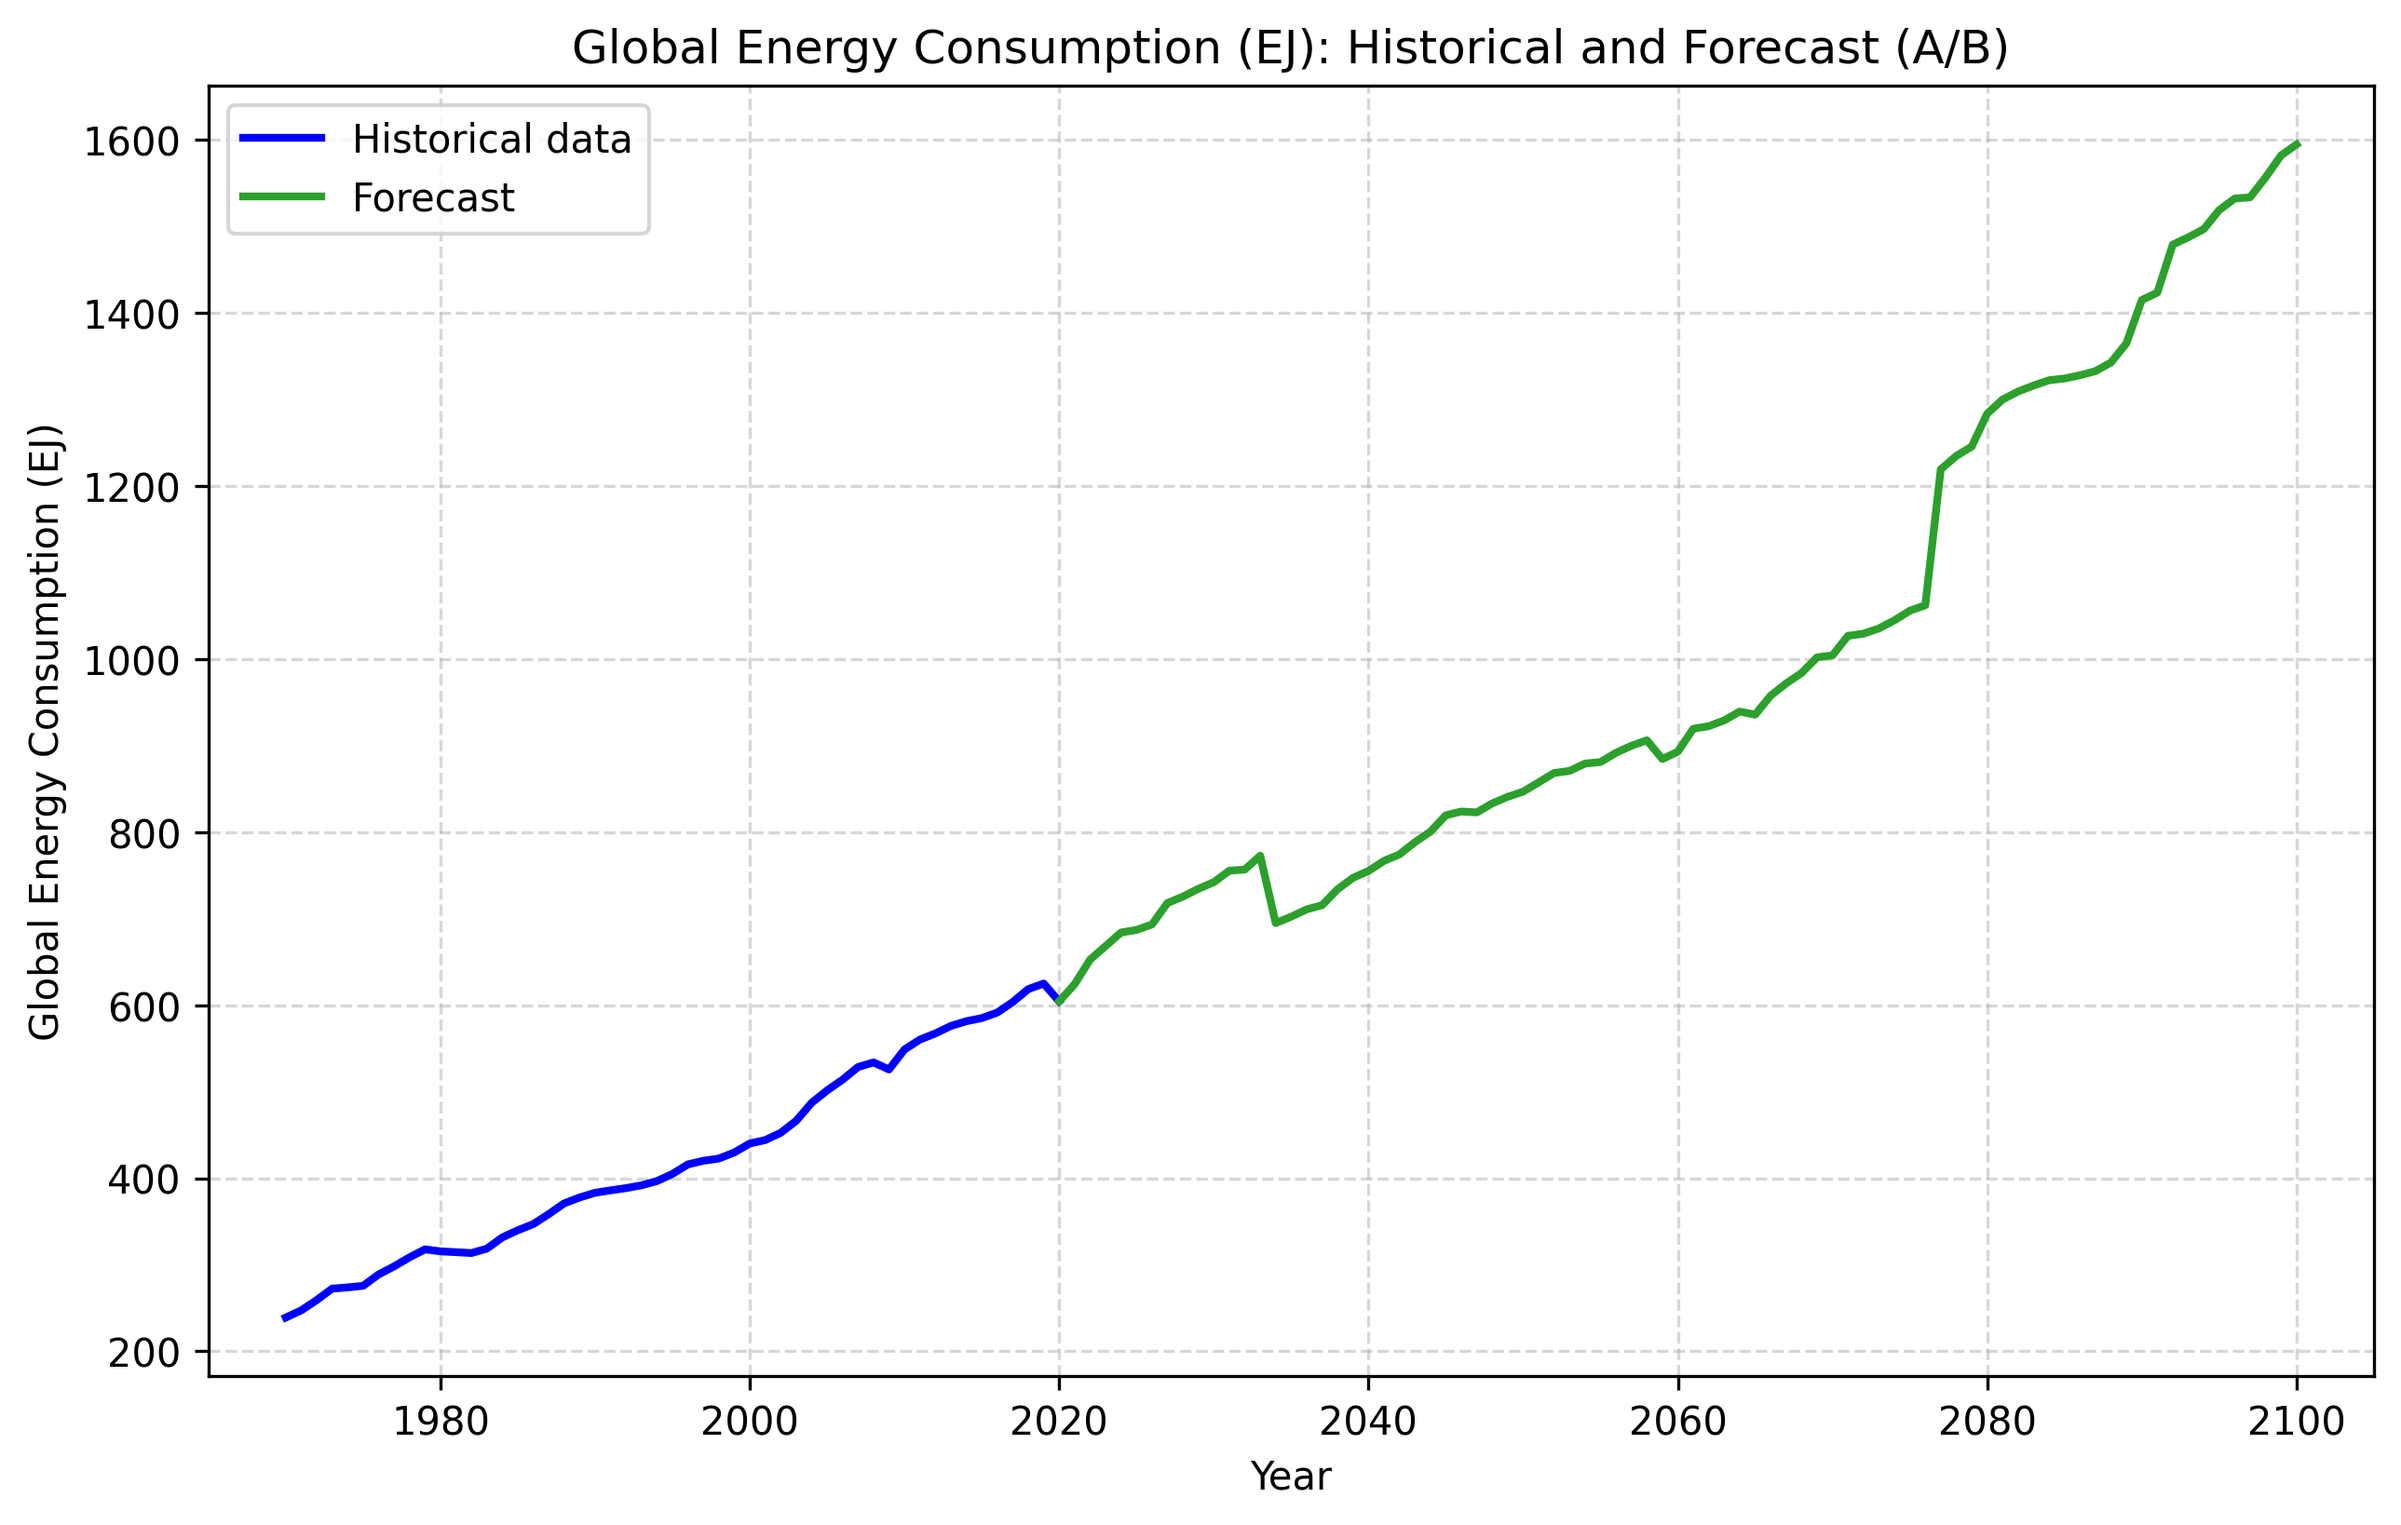
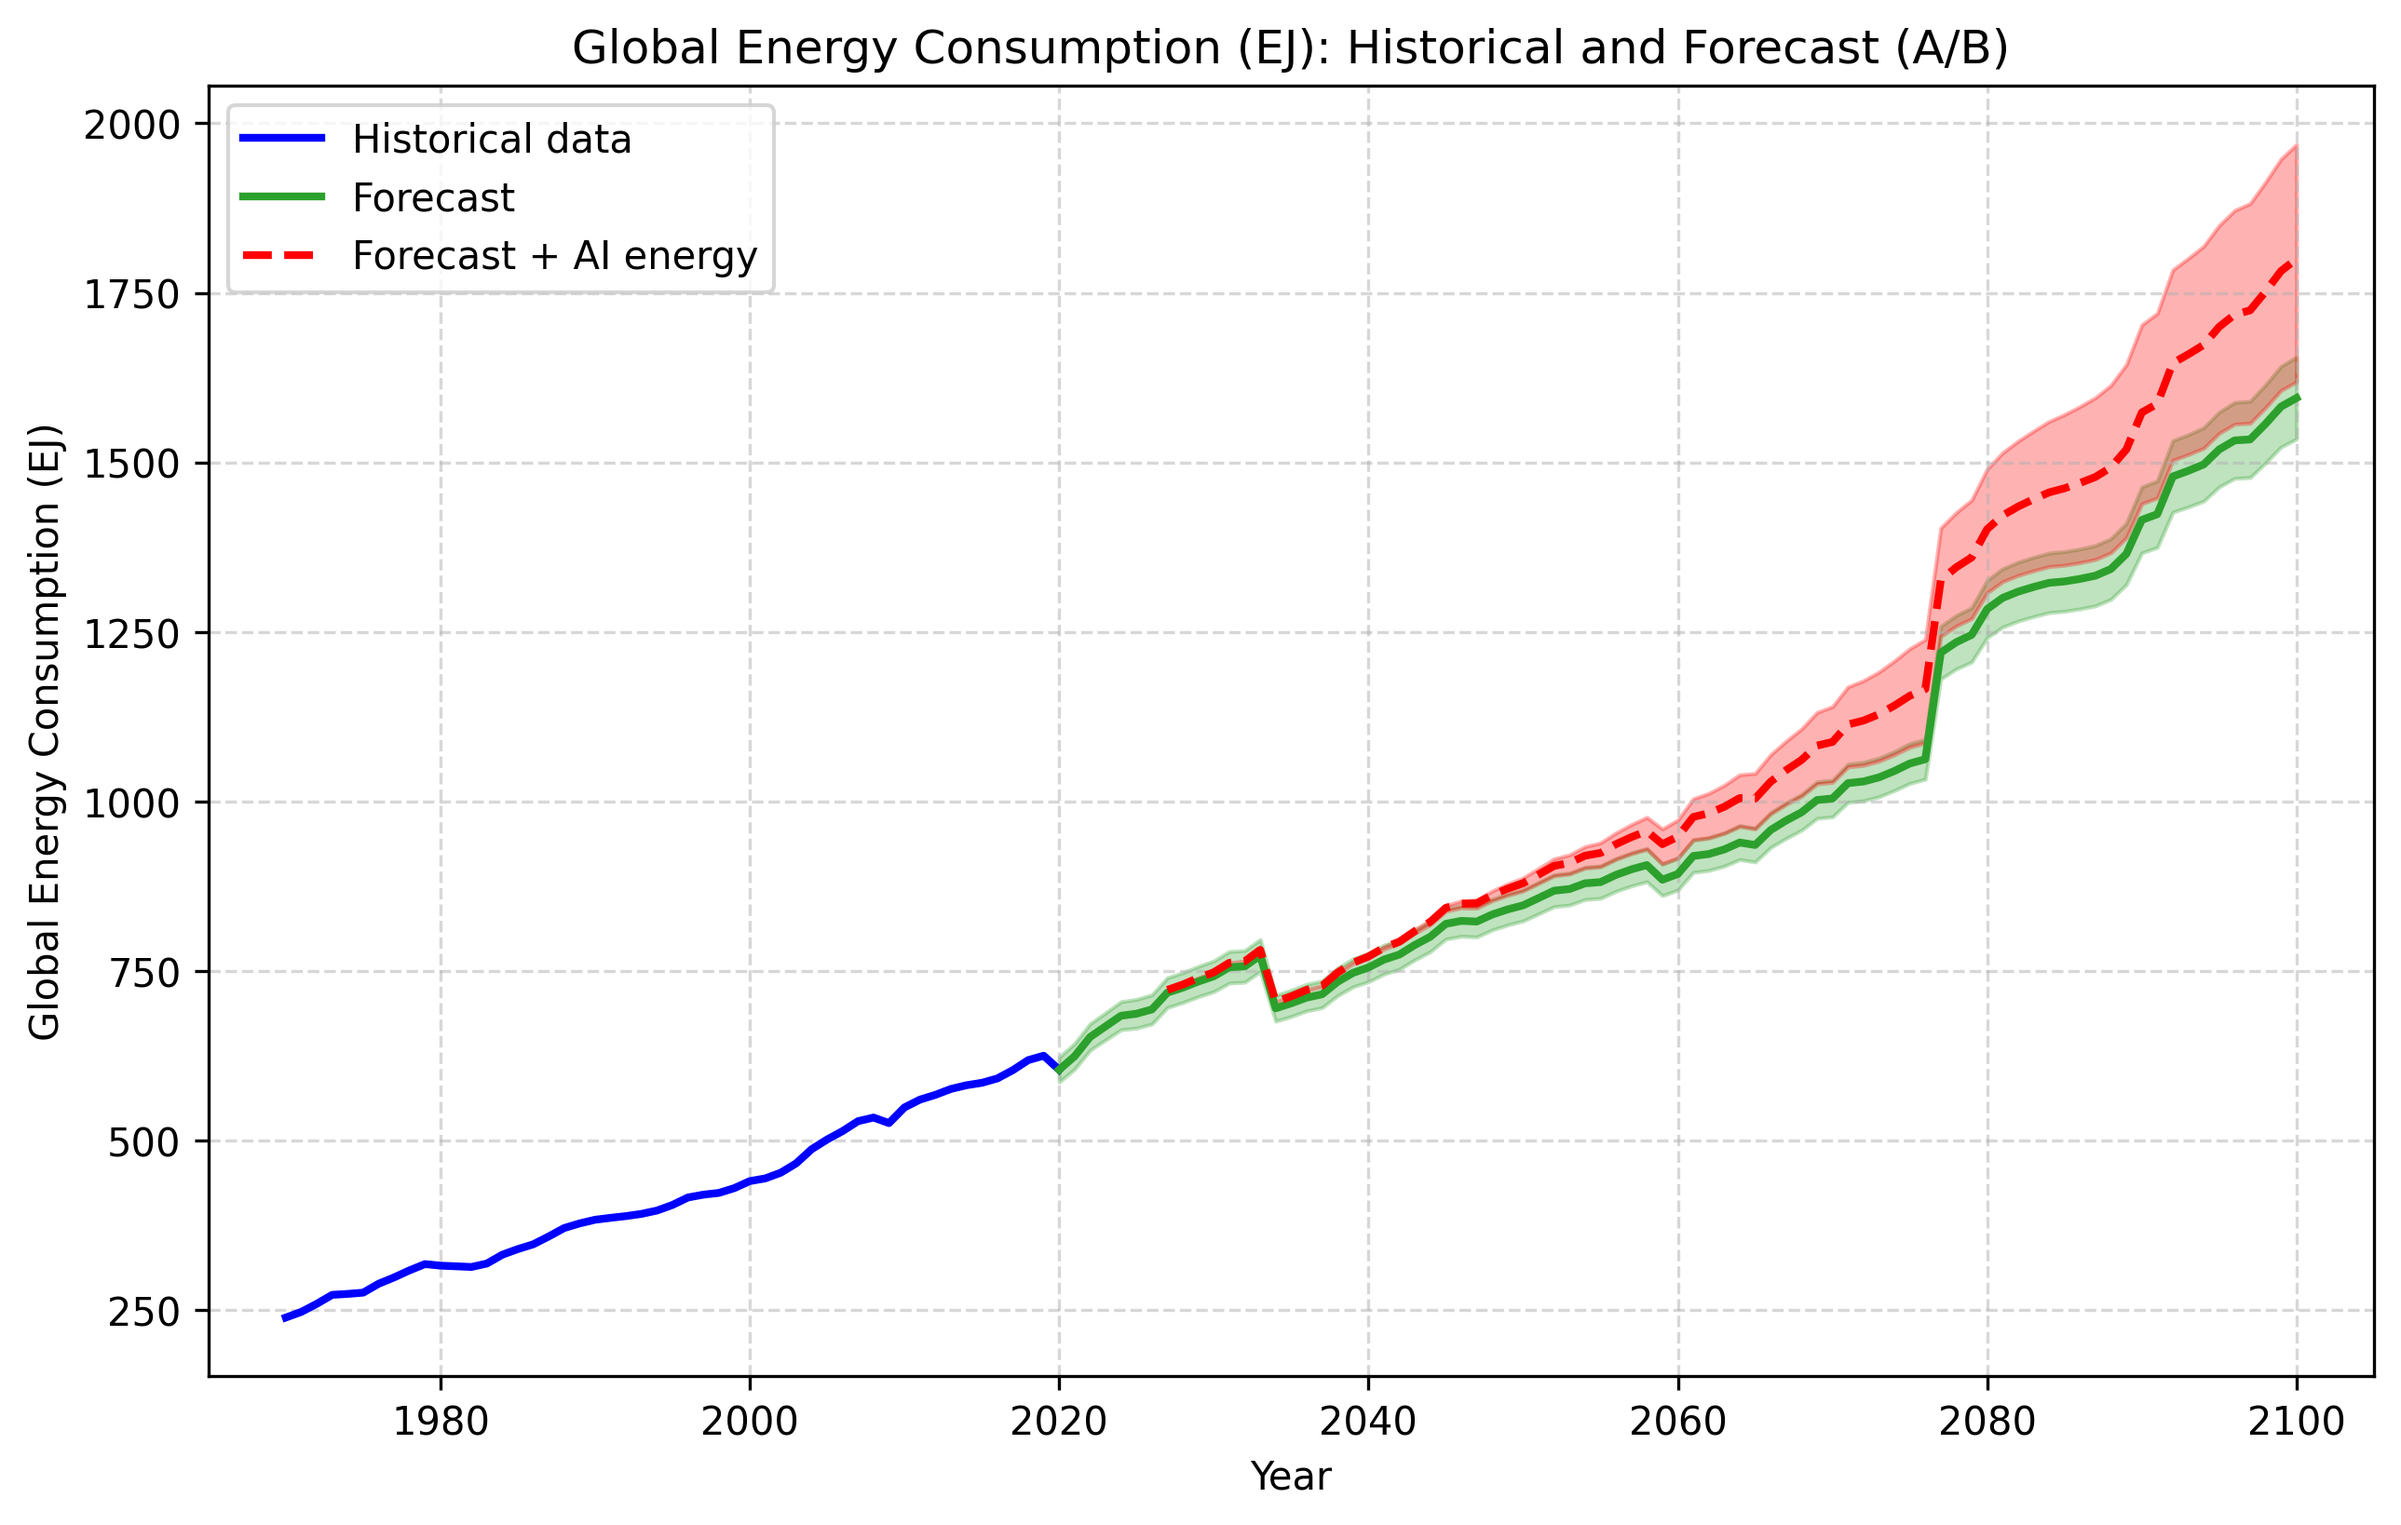
global EC plot done with uncertainty

diff --git a/plot_global_energy_consumption.py b/plot_global_energy_consumption.py
@@ -5,6 +5,7 @@ Plot Global Energy Consumption (EJ) = A / B, where:
 
 Historical (1970-2020): actual global EC from ARIMA input data (blue).
 Forecast (2020-2100): A/B, scaled so that 2020 equals the historical value (lines match at 2020).
+Forecast + AI energy (2027-2100): Global EC + AI energy from get_ai_energy_for_years (red dashed).
 """
 
 import pandas as pd
@@ -13,8 +14,10 @@ matplotlib.use("Agg")
 import matplotlib.pyplot as plt
 from pathlib import Path
 
+from ai_energy import get_ai_energy_for_years, get_ai_energy_uncertainty_for_years
+
 DATA_DIR = Path(__file__).resolve().parent / "data"
-PLOTS_DIR = DATA_DIR / "plots"
+PLOTS_DIR = Path(__file__).resolve().parent / "plots"
 PLOTS_DIR.mkdir(parents=True, exist_ok=True)
 
 # Paths to outputs from the two models
@@ -26,6 +29,7 @@ HISTORICAL_YEAR_MIN = 1970
 HISTORICAL_YEAR_MAX = 2020
 FORECAST_YEAR_MIN = 2020
 FORECAST_YEAR_MAX = 2100
+AI_ENERGY_PLOT_YEAR_MIN = 2027
 
 
 def load_historical_global_ec() -> pd.DataFrame:
@@ -101,7 +105,28 @@ def main():
     print("Computing Global EC = A/B and scaling so 2020 = historical value ...")
     forecast = compute_forecast_global_ec(historical_2020_value, A_by_year, B_by_year)
 
-    # Plot: Historical (1970-2020) in blue, Forecast (2020-2100) so 2020 matches
+    # Uncertainty band for forecast: (A / B^2) * 0.02, added/subtracted from each point (same scale as forecast)
+    forecast_ab = forecast.merge(A_by_year, on="Year").merge(B_by_year, on="Year")
+    raw_2020 = (forecast_ab.loc[forecast_ab["Year"] == 2020, "A_sum"].iloc[0] /
+                forecast_ab.loc[forecast_ab["Year"] == 2020, "B"].iloc[0])
+    scale = historical_2020_value / raw_2020
+    forecast_ab["delta"] = (forecast_ab["A_sum"] / forecast_ab["B"] ** 2) * 0.02 * scale
+    forecast_lower = forecast_ab["Global_EC_EJ"] - forecast_ab["delta"]
+    forecast_upper = forecast_ab["Global_EC_EJ"] + forecast_ab["delta"]
+
+    # Forecast + AI energy: Global EC + AI energy per year; plot 2027-2100 only
+    years_forecast = forecast["Year"].values
+    ai_energy_ej = get_ai_energy_for_years(years_forecast)
+    _, ai_lower, ai_upper = get_ai_energy_uncertainty_for_years(years_forecast)
+    forecast_plus_ai = forecast.copy()
+    forecast_plus_ai["Global_EC_EJ_plus_AI"] = forecast_plus_ai["Global_EC_EJ"].values + ai_energy_ej
+    forecast_plus_ai_2027 = forecast_plus_ai[forecast_plus_ai["Year"] >= AI_ENERGY_PLOT_YEAR_MIN]
+    # Uncertainty band for Forecast + AI: Global_EC + ai_lower/ai_upper (same years 2027-2100)
+    idx_2027 = (forecast_plus_ai_2027["Year"].values - 2020).astype(int)
+    forecast_plus_ai_2027_lower = forecast_plus_ai_2027["Global_EC_EJ"].values + ai_lower[idx_2027]
+    forecast_plus_ai_2027_upper = forecast_plus_ai_2027["Global_EC_EJ"].values + ai_upper[idx_2027]
+
+    # Plot: Historical (1970-2020) in blue, Forecast (2020-2100), Forecast + AI (2027-2100) red dashed
     plt.figure(figsize=(10, 6))
     plt.plot(
         historical["Year"],
@@ -110,12 +135,34 @@ def main():
         linewidth=2,
         label="Historical data",
     )
+    plt.fill_between(
+        forecast_ab["Year"],
+        forecast_lower,
+        forecast_upper,
+        color="tab:green",
+        alpha=0.3,
+    )
     plt.plot(
         forecast["Year"],
         forecast["Global_EC_EJ"],
         color="tab:green",
         linewidth=2,
         label="Forecast",
+    )
+    plt.fill_between(
+        forecast_plus_ai_2027["Year"],
+        forecast_plus_ai_2027_lower,
+        forecast_plus_ai_2027_upper,
+        color="red",
+        alpha=0.3,
+    )
+    plt.plot(
+        forecast_plus_ai_2027["Year"],
+        forecast_plus_ai_2027["Global_EC_EJ_plus_AI"],
+        color="red",
+        linestyle="--",
+        linewidth=2,
+        label="Forecast + AI energy",
     )
     plt.xlabel("Year")
     plt.ylabel("Global Energy Consumption (EJ)")

diff --git a/random_forest_ec_global_ratio.py b/random_forest_ec_global_ratio.py
@@ -29,8 +29,8 @@ from ai_energy import get_ai_energy_for_years, get_ai_energy_uncertainty_for_yea
 # ---------------------------------------------------------------------------
 
 DATA_DIR = Path(__file__).resolve().parent / "data"
-EC_MODEL_PATH = DATA_DIR / "ec_model.joblib"
-PLOTS_DIR = DATA_DIR / "plots"
+EC_MODEL_PATH = Path(__file__).resolve().parent / "ec_model.joblib"
+PLOTS_DIR = Path(__file__).resolve().parent / "plots"
 OUTPUT_DATA_DIR = DATA_DIR # CSVs for training/test inputs, features, and ratios
 PLOTS_DIR.mkdir(parents=True, exist_ok=True)
 OUTPUT_DATA_DIR.mkdir(parents=True, exist_ok=True)

diff --git a/random_forest_ec_global_ratio_ind_countries.py b/random_forest_ec_global_ratio_ind_countries.py
@@ -28,8 +28,8 @@ from ai_energy import get_ai_energy_for_years, get_ai_energy_uncertainty_for_yea
 # ---------------------------------------------------------------------------
 
 DATA_DIR = Path(__file__).resolve().parent / "data"
-EC_MODEL_PATH = DATA_DIR / "ec_model.joblib"
-PLOTS_DIR = DATA_DIR / "plots"
+EC_MODEL_PATH = Path(__file__).resolve().parent / "ec_model.joblib"
+PLOTS_DIR = Path(__file__).resolve().parent / "plots"
 OUTPUT_DATA_DIR = DATA_DIR
 PLOTS_DIR.mkdir(parents=True, exist_ok=True)
 OUTPUT_DATA_DIR.mkdir(parents=True, exist_ok=True)

diff --git a/random_forest_ec.py b/random_forest_ec.py
@@ -27,8 +27,8 @@ url_final = "https://raw.githubusercontent.com/AntongZ1/Data/main/finaldata0411.
 finaldata = pd.read_csv(url_final)
 
 # GDP and Population for ALL years from local ARIMA files only
-gdp_arima = pd.read_csv("data/ARIMA input data - GDP.csv")
-pop_arima = pd.read_csv("data/ARIMA input data - Population.csv")
+gdp_arima = pd.read_csv(f"{DATA_DIR}/ARIMA input data - GDP.csv")
+pop_arima = pd.read_csv(f"{DATA_DIR}/ARIMA input data - Population.csv")
 
 # ==========================================================
 # 3. FEATURES
